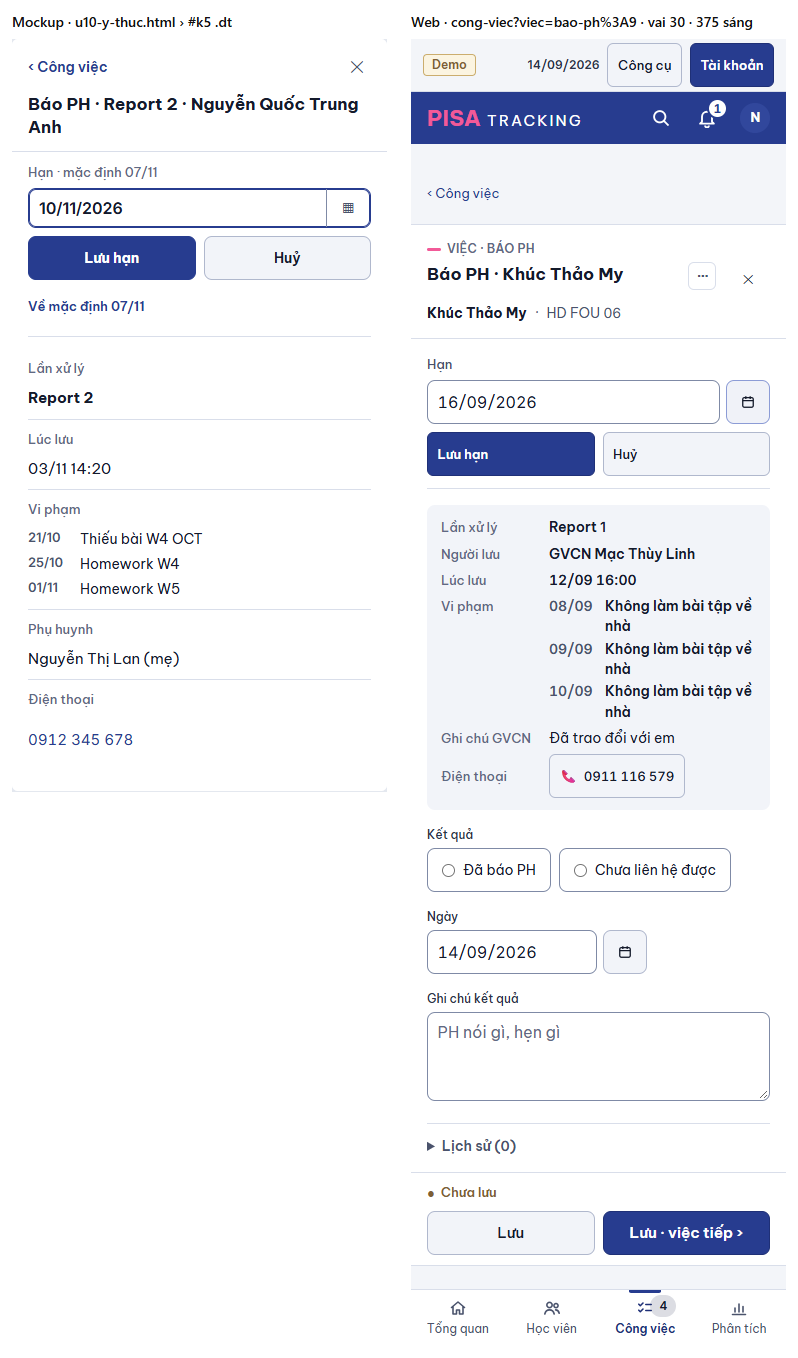
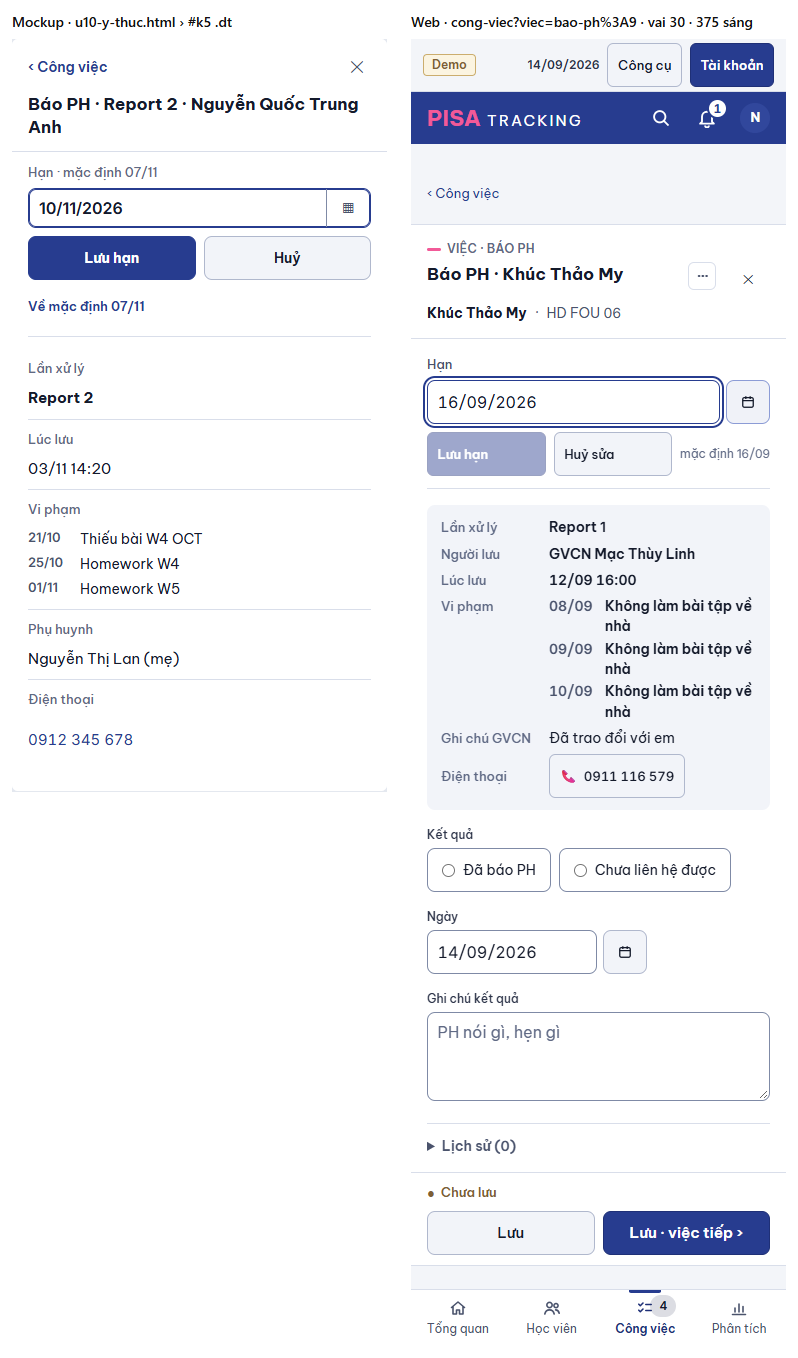
UI-1: sửa theo rà (Esc, focus, 44 px, HAN_GAN_NGAY, toast, Huỷ sửa) + khop-khac

diff --git a/web/src/ui/DongHan.tsx b/web/src/ui/DongHan.tsx
@@ -1,8 +1,8 @@
-import { useState } from 'react';
+import { useEffect, useId, useRef, useState } from 'react';
 import { ApiError } from '../lib/api.ts';
 import { ONgay } from './ONgay.tsx';
 import { useNgayNghiepVu } from './ngayNghiepVu.ts';
-import { daysBetween, shortDate } from '@shared/domain/index.ts';
+import { HAN_GAN_NGAY, daysBetween, shortDate } from '@shared/domain/index.ts';
 import { t } from '@shared/i18n/index.ts';
 
 /**
@@ -30,11 +30,20 @@ export function DongHan({ han, hanMacDinh, hanChon, xong, suaDuoc, onLuu, onTaiL
   const [nhap, setNhap] = useState(han);
   const [dang, setDang] = useState(false);
   const [loi, setLoi] = useState<{ chu: string; xungDot: boolean } | null>(null);
+  /* Bàn phím: mở sửa → focus ô ngày; đóng (Lưu / Huỷ / Esc) → focus lại "Sửa hạn". Lỗi → focus ô ngày. */
+  const idO = useId();
+  const nutSua = useRef<HTMLButtonElement>(null);
+  const daMo = useRef(false);
+  useEffect(() => {
+    if (sua) document.getElementById(idO)?.focus();
+    else if (daMo.current) nutSua.current?.focus();
+    daMo.current = sua;
+  }, [sua, idO]);
 
   const luu = async (moi: string | null) => {
     setDang(true); setLoi(null);
     try { await onLuu(moi, hanChon); setSua(false); }
-    catch (e: any) { setLoi({ chu: e?.message ?? t('Không lưu được'), xungDot: e instanceof ApiError && e.status === 409 }); }
+    catch (e: any) { setLoi({ chu: e?.message ?? t('Không lưu được'), xungDot: e instanceof ApiError && e.status === 409 }); document.getElementById(idO)?.focus(); }
     finally { setDang(false); }
   };
   const moSua = () => { setNhap(han); setLoi(null); setSua(true); };
@@ -42,18 +51,19 @@ export function DongHan({ han, hanMacDinh, hanChon, xong, suaDuoc, onLuu, onTaiL
   /* Badge khung + chấm (mockup U10 `.bv`, chủ SP 03/11 U04): quá hạn ⚠ đỏ · ≤ 3 ngày vàng · xa xám (#814 hạn xa = viên xám). */
   const BV = 'inline-flex h-6 items-center gap-1.5 whitespace-nowrap rounded-md border px-2 text-xs font-semibold';
   const cham = (mau: string) => <span aria-hidden className="h-[7px] w-[7px] shrink-0 rounded-full" style={{ background: mau }} />;
-  const tinh = xong ? null
+  const tinh = xong || !hn ? null
     : conNgay < 0 ? <span className={`${BV} border-late-line bg-late-bg text-late`}><span aria-hidden>⚠</span>{t('quá hạn {n} ngày', { n: -conNgay })}</span>
-    : conNgay <= 3 ? <span className={`${BV} border-soon-line bg-soon-bg text-soon`}>{cham('currentColor')}{conNgay === 0 ? t('hôm nay') : t('còn {n} ngày', { n: conNgay })}</span>
+    : conNgay <= HAN_GAN_NGAY ? <span className={`${BV} border-soon-line bg-soon-bg text-soon`}>{cham('currentColor')}{conNgay === 0 ? t('hôm nay') : t('còn {n} ngày', { n: conNgay })}</span>
     : <span className={`${BV} text-slate-400`} style={{ borderColor: 'var(--line-strong)' }}>{cham('var(--text-faint)')}{t('còn {n} ngày', { n: conNgay })}</span>;
   const nguon = <span className="text-xs text-slate-500">{hanChon ? t('đã chỉnh · mặc định {ngay}', { ngay: shortDate(hanMacDinh, hn) }) : t('mặc định')}</span>;
 
   const giaTri = sua ? (
-    <span className="flex flex-col gap-2">
+    /* Esc chỉ đóng ô sửa (giữ panel) — KhungPanel bỏ qua Esc đã `preventDefault`. */
+    <span className="flex flex-col gap-2" onKeyDown={(e) => { if (e.key === 'Escape' && !dang) { e.preventDefault(); setSua(false); } }}>
       <span className="flex flex-wrap items-center gap-2">
-        <span className="w-[200px] max-sm:w-full"><ONgay kieu="ngay" value={nhap} onChange={setNhap} ariaLabel={t('Hạn mới')} /></span>
-        <button type="button" className="btn btn-sm btn-primary min-h-[44px] sm:min-h-[36px] max-sm:flex-1" disabled={dang || !nhap} onClick={() => void luu(nhap)}>{dang ? t('Đang lưu…') : t('Lưu hạn')}</button>
-        <button type="button" className="btn btn-sm min-h-[44px] sm:min-h-[36px] max-sm:flex-1" disabled={dang} onClick={() => setSua(false)}>{t('Huỷ')}</button>
+        <span className="w-[200px] max-sm:w-full"><ONgay kieu="ngay" id={idO} value={nhap} onChange={setNhap} ariaLabel={t('Hạn mới')} /></span>
+        <button type="button" className="btn btn-sm btn-primary min-h-[44px] sm:min-h-[36px] max-sm:flex-1" disabled={dang || !nhap || nhap === han} onClick={() => void luu(nhap)}>{dang ? t('Đang lưu…') : t('Lưu hạn')}</button>
+        <button type="button" className="btn btn-sm min-h-[44px] sm:min-h-[36px] max-sm:flex-1" disabled={dang} onClick={() => setSua(false)}>{t('Huỷ sửa')}</button>
         {!hanChon && <span className="text-xs text-slate-500">{t('mặc định')} {shortDate(hanMacDinh, hn)}</span>}
         {hanChon && <button type="button" className="link min-h-[44px] appearance-none border-0 bg-transparent p-0 text-sm font-semibold sm:min-h-0" disabled={dang}
           onClick={() => void luu(null)}>{t('Về mặc định {ngay}', { ngay: shortDate(hanMacDinh, hn) })}</button>}
@@ -61,7 +71,7 @@ export function DongHan({ han, hanMacDinh, hanChon, xong, suaDuoc, onLuu, onTaiL
       {loi && (
         <span role="alert" className="flex flex-wrap items-center gap-2 rounded-lg border border-late-line bg-late-bg px-3 py-2 text-sm">
           <b className="text-late">{t('Chưa lưu.')}</b><span className="min-w-0 flex-1 text-slate-200">{loi.chu}{loi.xungDot && ` ${t('Ngày bạn gõ vẫn giữ trong ô.')}`}</span>
-          {loi.xungDot && <button type="button" className="link appearance-none border-0 bg-transparent p-0 font-semibold" onClick={onTaiLai}>{t('Tải lại')}</button>}
+          {loi.xungDot && <button type="button" className="link min-h-[44px] appearance-none border-0 bg-transparent p-0 font-semibold sm:min-h-0" onClick={() => { setLoi(null); onTaiLai(); }}>{t('Tải lại')}</button>}
         </span>
       )}
     </span>
@@ -70,7 +80,7 @@ export function DongHan({ han, hanMacDinh, hanChon, xong, suaDuoc, onLuu, onTaiL
       <b className={`tabular-nums text-slate-100 ${gon ? 'text-sm' : 'text-base'}`}>{shortDate(han, hn)}</b>
       {tinh && <span className="text-[13px] tabular-nums">{tinh}</span>}
       {!xong && nguon}
-      {suaDuoc && !xong && <button type="button" className={`link min-h-[44px] appearance-none border-0 bg-transparent p-0 text-sm font-semibold sm:min-h-0 ${gon ? '' : 'ml-auto'}`} onClick={moSua}>{t('Sửa hạn')}</button>}
+      {suaDuoc && !xong && <button ref={nutSua} type="button" className={`link min-h-[44px] appearance-none border-0 bg-transparent p-0 text-sm font-semibold sm:min-h-0 ${gon ? '' : 'ml-auto'}`} onClick={moSua}>{t('Sửa hạn')}</button>}
     </span>
   );
   if (gon) return giaTri;

diff --git a/web/src/modules/yThuc/PhoiHopSosSection.tsx b/web/src/modules/yThuc/PhoiHopSosSection.tsx
@@ -201,7 +201,7 @@ function ActionRow({ a, canAct, onChanged }: { a: CoordAction; canAct: boolean; 
           {/* UI-1 (mockup U10 K8): GVCN / QL sửa hạn tại chỗ (máy chủ `suaHanPhoiHop`); người chỉ xem thấy hạn như cũ. */}
           {a.status === 'pending' && a.han && (canAct && a.hanMacDinh
             ? <span className="mt-1 block"><DongHan gon han={a.han} hanMacDinh={a.hanMacDinh} hanChon={a.hanChon ?? null} suaDuoc onTaiLai={() => onChanged?.()}
-                onLuu={async (han, hanCu) => { await api.post(`/phoi-hop-sos/${a.id}/han`, { han, hanCu }); invalidate('/classes'); invalidate('/students'); invalidate('/my-work'); onChanged?.(); }} /></span>
+                onLuu={async (han, hanCu) => { await api.post(`/phoi-hop-sos/${a.id}/han`, { han, hanCu }); toast.push('ok', t('Đã lưu hạn')); invalidate('/classes'); invalidate('/students'); invalidate('/my-work'); onChanged?.(); }} /></span>
             : <span className="block text-xs mt-0.5"><Han loai="phoi-hop" han={a.han} /></span>)}
           {a.noiDung && a.noiDung.length > 0 && (
             <details className="mt-1">

diff --git a/web/src/modules/congViec/PanelBaoPhTvv.tsx b/web/src/modules/congViec/PanelBaoPhTvv.tsx
@@ -135,6 +135,7 @@ export function PanelBaoPhTvv({ it, onDong, onDaLam, onTiep, tenTiep }: {
   const ph = v.lienHe;
   const suaHan = async (moi: string | null, hanCu: string | null) => {
     await api.post(`/y-thuc/bao-ph/${v.id}/han`, { han: moi, hanCu });
+    toast.push('ok', t('Đã lưu hạn'));
     for (const k of KHOA_BAO_PH) invalidate(k);
     reload(); onDaLam();
   };

diff --git a/shared/i18n/en/hanBaoPh.ts b/shared/i18n/en/hanBaoPh.ts
@@ -3,6 +3,7 @@ import type { Dich } from '../en.ts';
 
 export const EN_HAN_BAO_PH = {
   'Sửa hạn': 'Edit deadline',
+  'Đã lưu hạn': 'Deadline saved',
   'Lưu hạn': 'Save deadline',
   'mặc định': 'default',
   'đã chỉnh · mặc định {ngay}': 'edited · default {ngay}',

diff --git a/docs/anh/ui-sua-han/khop-khac.md b/docs/anh/ui-sua-han/khop-khac.md
@@ -1,0 +1,47 @@
+# UI-1 · Sửa hạn Báo PH + Meeting CX — khớp / khác (mockup U10 K5 · K8, chủ SP duyệt 03/11)
+
+Ảnh cặp (trái mockup `thiet-ke/audit-0311/u10-y-thuc.html`, phải web dev `localhost:5831`, dữ liệu seed, phông Be Vietnam Pro đã nạp — `document.fonts.check` = true):
+`cap-k5-1440.png` (TVV · panel Báo PH, 1440 tối) · `cap-k5-375.png` (TVV · đang sửa hạn, 375 sáng) · `cap-k8-1440.png` (GVCN · Meeting CX trong Phối hợp SOS, 1440 tối).
+
+## Bảng truy vết
+| Khung (mockup) | Thành phần web | Ảnh |
+|---|---|---|
+| K5a dòng Hạn (ngày · badge còn n ngày · "đã chỉnh · mặc định dd/mm" · Sửa hạn) | `web/src/ui/DongHan.tsx` (mới) trong `PanelBaoPhTvv` | cap-k5-1440 |
+| K5a bối cảnh tách trường (Lần xử lý · Người lưu · Lúc lưu · Vi phạm từng dòng · Ghi chú GVCN · Phụ huynh · Điện thoại) | `PanelBaoPhTvv` `BoiCanh` + máy chủ `boiCanh.viPham / ghiChu` | cap-k5-1440 |
+| K5a Lịch sử (lần liên hệ + "Đổi hạn cũ → mới") | `PanelBaoPhTvv` | (bấm thử: "Đổi hạn 07/09 → 18/09 · Vũ Hồng Nhung") |
+| K5b mặc định · K5d quá hạn | `DongHan` xem | cap-k5-1440 (15/09 còn 1 ngày) · bấm thử (07/09 quá hạn 7 ngày) |
+| K5c / K5g đang sửa (ô ngày · Lưu hạn · Huỷ · Về mặc định) | `DongHan` sửa | cap-k5-375 |
+| K5e 409 (giữ ngày đã gõ + Tải lại) | `DongHan` lỗi | (đường lỗi — phép kiểm máy chủ HAN-2) |
+| K5f việc xong (không Sửa hạn) | `DongHan xong` | (phép kiểm HAN-3) |
+| K8 Meeting CX: hạn · mặc định · Sửa hạn; việc không hạn giữ | `PhoiHopSosSection` `ActionRow` → `DongHan gon` | cap-k8-1440 |
+| BỎ: chữ "hạn 23:59 dd/mm (còn n ngày)" ở đầu panel | `dauViec ngCanh` — hạn thành trường riêng trong thân | cap-k5-1440 |
+| GIỮ: Kết quả · Ngày · Ghi chú · Lưu / Lưu · việc tiếp › · ⋯ Bỏ việc · Khôi phục | `PanelBaoPhTvv` | cap-k5-1440 |
+
+## KHỚP / KHÁC
+| # | Chỗ | KHỚP / KHÁC | Lý do |
+|---|---|---|---|
+| 1 | Dòng Hạn K5 (vị trí, ngày đậm, badge khung + chấm, nguồn hạn, Sửa hạn phải) | KHỚP | |
+| 2 | Badge hạn xa | KHÁC | mockup tô vàng "còn 7 ngày"; web giữ luật #814 hạn xa = viên xám, ≤ 3 ngày vàng, quá hạn đỏ ⚠ |
+| 3 | Bối cảnh: mỗi trường một hàng | KHỚP | |
+| 4 | Nền bối cảnh | KHÁC | web giữ thành phần chung `BoiCanh` (nền surface-2, dùng ở mọi panel việc); mockup kẻ dòng không nền — đổi chung là PR khác |
+| 5 | Phụ huynh | KHỚP (khi có tên) | dữ liệu seed em này không có tên PH nên ảnh chỉ thấy Điện thoại |
+| 6 | Đang sửa 375: ô ngày cả dòng, Lưu hạn / Huỷ hai nửa, "mặc định dd/mm" | KHỚP | "Về mặc định" chỉ hiện khi đã chỉnh; chữ nút "Huỷ sửa" (luật chữ nút S3: không "Huỷ" trần — cùng chữ chân lưu) |
+| 6b | Bàn phím | — | mở sửa → focus ô ngày; Esc / Huỷ sửa / Lưu → focus lại "Sửa hạn", Esc không đóng panel; lỗi → focus ô ngày |
+| 7 | Lịch sử: mỗi lần một hàng, tiêu đề + người | KHỚP | web gập khi 0 lần (như cũ) |
+| 8 | K8 hàng Meeting CX: hạn + mặc định + Sửa hạn | KHỚP | |
+| 9 | K8 bố cục cả phần Phối hợp SOS (phân đoạn "Vi phạm \| Phối hợp SOS", cột Hạn) | KHÁC | thuộc UI-2 / UI-3 (đổi bố cục tab Ý thức) — PR này chỉ thêm Sửa hạn vào hàng hiện có |
+| 10 | Đầu panel "VIỆC · BÁO PH" + tên việc | KHỚP | |
+
+KHỚP 8 / 10 (2 KHÁC có lý do: luật #814, thành phần chung; #9 ngoài phạm vi PR).
+
+## Thao tác TRƯỚC → SAU
+| Thao tác | Trước | Sau |
+|---|---|---|
+| Xem hạn Báo PH | chữ đầu panel "hạn 23:59 dd/mm (còn n ngày)" | dòng Hạn đầu thân panel, badge trạng thái, nguồn hạn |
+| Sửa hạn Báo PH | không có | **MỚI**: Sửa hạn → ô ngày · Lưu hạn / Huỷ / Về mặc định (TVV, TVV cùng CN, GVCN lớp em, QL — máy chủ #831) |
+| Sửa hạn Meeting CX | không có | **MỚI**: cùng thành phần, trong hàng việc (GVCN, QL) |
+| Ghi kết quả · Bỏ việc · Khôi phục · Lưu · việc tiếp | như cũ | GIỮ |
+| Gọi phụ huynh (nút 📞) | trong dòng "Phụ huynh" | GIỮ, dòng "Điện thoại" riêng |
+| Lịch sử | chỉ lần liên hệ | + lần đổi hạn |
+
+Không mất thao tác nào.
